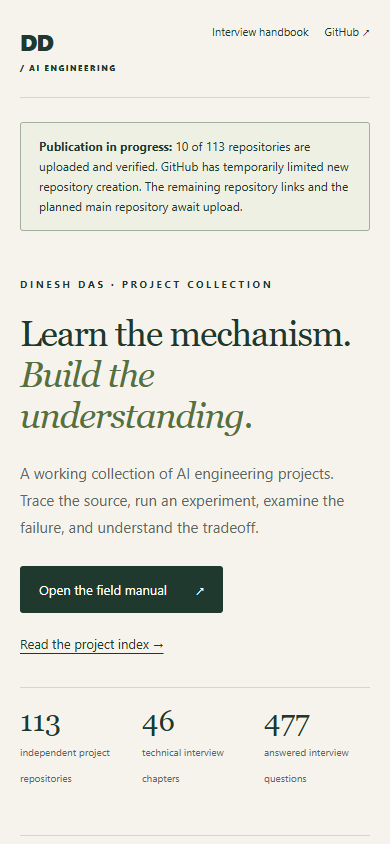
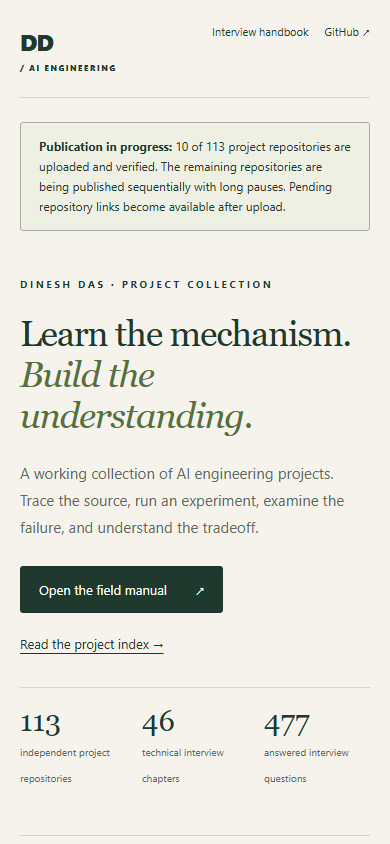
docs: show active sequential publication in the portfolio

Changed region(s): [[0.0923, 0.154, 0.8923, 0.2773]]

diff --git a/portfolio.html b/portfolio.html
@@ -5,7 +5,7 @@
 <title>AI Engineering Portfolio · Dinesh Das</title><link rel="stylesheet" href="portfolio.css"><script src="portfolio.js" defer></script></head>
 <body><a class="skip" href="#projects">Skip to projects</a><div class="shell">
 <header><a class="wordmark" href="portfolio.html">DD <span>/ AI ENGINEERING</span></a><nav aria-label="Main navigation"><a href="index.html">Interview handbook</a><a href="https://github.com/Dinesh-Das/AI-Engineering-Portfolio">GitHub ↗</a></nav></header>
-<main><p class="publication-status" role="note"><strong>Publication in progress:</strong> 10 of 113 repositories are uploaded and verified. GitHub has temporarily limited new repository creation. The remaining repository links and the planned main repository await upload.</p><section class="intro" aria-labelledby="title"><div><p class="eyebrow">DINESH DAS · PROJECT COLLECTION</p><h1 id="title">Learn the mechanism.<br><em>Build the understanding.</em></h1><p class="lead">A working collection of AI engineering projects. Trace the source, run an experiment, examine the failure, and understand the tradeoff.</p><div class="hero-links"><a class="primary" href="index.html">Open the field manual <span aria-hidden="true">↗</span></a><a href="https://github.com/Dinesh-Das/AI-Engineering-Portfolio/blob/main/PROJECT_INDEX.md">Read the project index →</a></div></div>
+<main><p class="publication-status" role="note"><strong>Publication in progress:</strong> 10 of 113 project repositories are uploaded and verified. The remaining repositories are being published sequentially with long pauses. Pending repository links become available after upload.</p><section class="intro" aria-labelledby="title"><div><p class="eyebrow">DINESH DAS · PROJECT COLLECTION</p><h1 id="title">Learn the mechanism.<br><em>Build the understanding.</em></h1><p class="lead">A working collection of AI engineering projects. Trace the source, run an experiment, examine the failure, and understand the tradeoff.</p><div class="hero-links"><a class="primary" href="index.html">Open the field manual <span aria-hidden="true">↗</span></a><a href="https://github.com/Dinesh-Das/AI-Engineering-Portfolio/blob/main/PROJECT_INDEX.md">Read the project index →</a></div></div>
 <aside class="stats" aria-label="Collection at a glance"><div><strong>113</strong><span>independent project repositories</span></div><div><strong>46</strong><span>technical interview chapters</span></div><div><strong>477</strong><span>answered interview questions</span></div><p>RAG, agents, MCP, memory, vision, voice, evaluation, and training.</p></aside></section>
 <section class="directory" aria-labelledby="directory-title"><div class="directory-heading"><div><p class="eyebrow">THE REPOSITORIES</p><h2 id="directory-title">Explore the collection</h2></div><p id="count" role="status" aria-live="polite">113 projects</p></div>
 <div class="filters"><div class="search"><label for="search">Find a project</label><input id="search" type="search" placeholder="Search projects, tools, or ideas…" autocomplete="off"></div><div><label for="category">Category</label><select id="category"><option value="">All categories</option><option value="agents">Agents</option><option value="evaluation">Evaluation</option><option value="interfaces">Interfaces</option><option value="mcp">Mcp</option><option value="media">Media</option><option value="memory">Memory</option><option value="ocr">Ocr</option><option value="operations">Operations</option><option value="rag">Rag</option><option value="recipe">Recipe</option><option value="retrieval">Retrieval</option><option value="structured">Structured</option><option value="training">Training</option><option value="voice">Voice</option></select></div><button id="reset" type="button">Reset filters</button></div>

diff --git a/docs/PUBLICATION.md b/docs/PUBLICATION.md
@@ -1,6 +1,6 @@
 # GitHub publication
 
-The target is one public GitHub repository per project, plus [AI-Engineering-Portfolio](https://github.com/Dinesh-Das/AI-Engineering-Portfolio) as its main directory. All 113 local publication repositories are prepared on `main`. **Ten project repositories are uploaded and verified; 103 project repositories and creation of the main repository remain blocked by GitHub's temporary content-creation limit.** The [publication report](publication-report.json) records the exact completed set. No publisher is left running.
+The target is one public GitHub repository per project, plus [AI-Engineering-Portfolio](https://github.com/Dinesh-Das/AI-Engineering-Portfolio) as its main directory. All 113 local publication repositories are prepared on `main`. **Ten project repositories are uploaded and verified; 103 project repositories await the slow sequential publication.** The main repository has been created. The [publication report](publication-report.json) records the verified project set. Publication resumed with persistent pacing and automatic backoff.
 
 - [Searchable local portfolio](../portfolio.html) (GitHub Pages publication pending)
 - [Interactive HTML interview handbook](../index.html)
@@ -44,4 +44,4 @@ The prepared local checkouts and completed upload state are retained. From this 
 & 'C:\Users\dines\AppData\Roaming\uv\python\cpython-3.12.15-windows-x86_64-none\python.exe' 'D:\MyProjects\AI Projects\.publication\resume.py'
 ```
 
-The script creates the main repository first, pushes the collection and portfolio, enables GitHub Pages, then uploads pending project repositories. It skips verified uploads and refuses to overwrite a different existing remote head. It stops on an API failure and preserves progress. Repository creation failed after increasing cooldown waits; the REST endpoint confirmed HTTP 403 for a secondary content-creation limit with no `Retry-After` header. [GitHub's guidance](https://docs.github.com/en/rest/using-the-rest-api/rate-limits-for-the-rest-api#exceeding-the-rate-limit) requires backing off rather than continuing requests.
+The script creates the main repository first, pushes the collection and portfolio, enables GitHub Pages, then uploads pending project repositories. It skips verified uploads and refuses to overwrite a different existing remote head. New repository creations are spaced 2–4 minutes apart with variable pauses; other writes have a smaller separate delay. Pacing deadlines persist across restarts. Rate-limit responses trigger a cooldown of at least 30 minutes, increasing exponentially on repeated failures, while honoring any longer server-provided retry interval. After three failed attempts the publisher stops with progress retained. Other API errors stop immediately. These measures reduce request pressure but cannot guarantee the absence of GitHub limits. [GitHub's guidance](https://docs.github.com/en/rest/using-the-rest-api/rate-limits-for-the-rest-api#exceeding-the-rate-limit) requires backing off rather than continuing requests.

diff --git a/docs/REPOSITORIES.md b/docs/REPOSITORIES.md
@@ -2,7 +2,7 @@
 
 [Local portfolio](../portfolio.html) · [Offline handbook](../index.html) · [Publication status](publication-report.json)
 
-**10 of 113 project repositories are uploaded and verified.** All 113 independent local checkouts are prepared on `main`. Pending URLs below are reserved names, not existing repositories. GitHub is temporarily limiting repository creation.
+**10 of 113 project repositories are uploaded and verified.** All 113 independent local checkouts are prepared on `main`. Pending URLs below are reserved names and become available as the sequential publication proceeds.
 
 Planned hosting: [portfolio](https://dinesh-das.github.io/AI-Engineering-Portfolio/portfolio.html), [handbook](https://dinesh-das.github.io/AI-Engineering-Portfolio/), and [main repository](https://github.com/Dinesh-Das/AI-Engineering-Portfolio).
 
